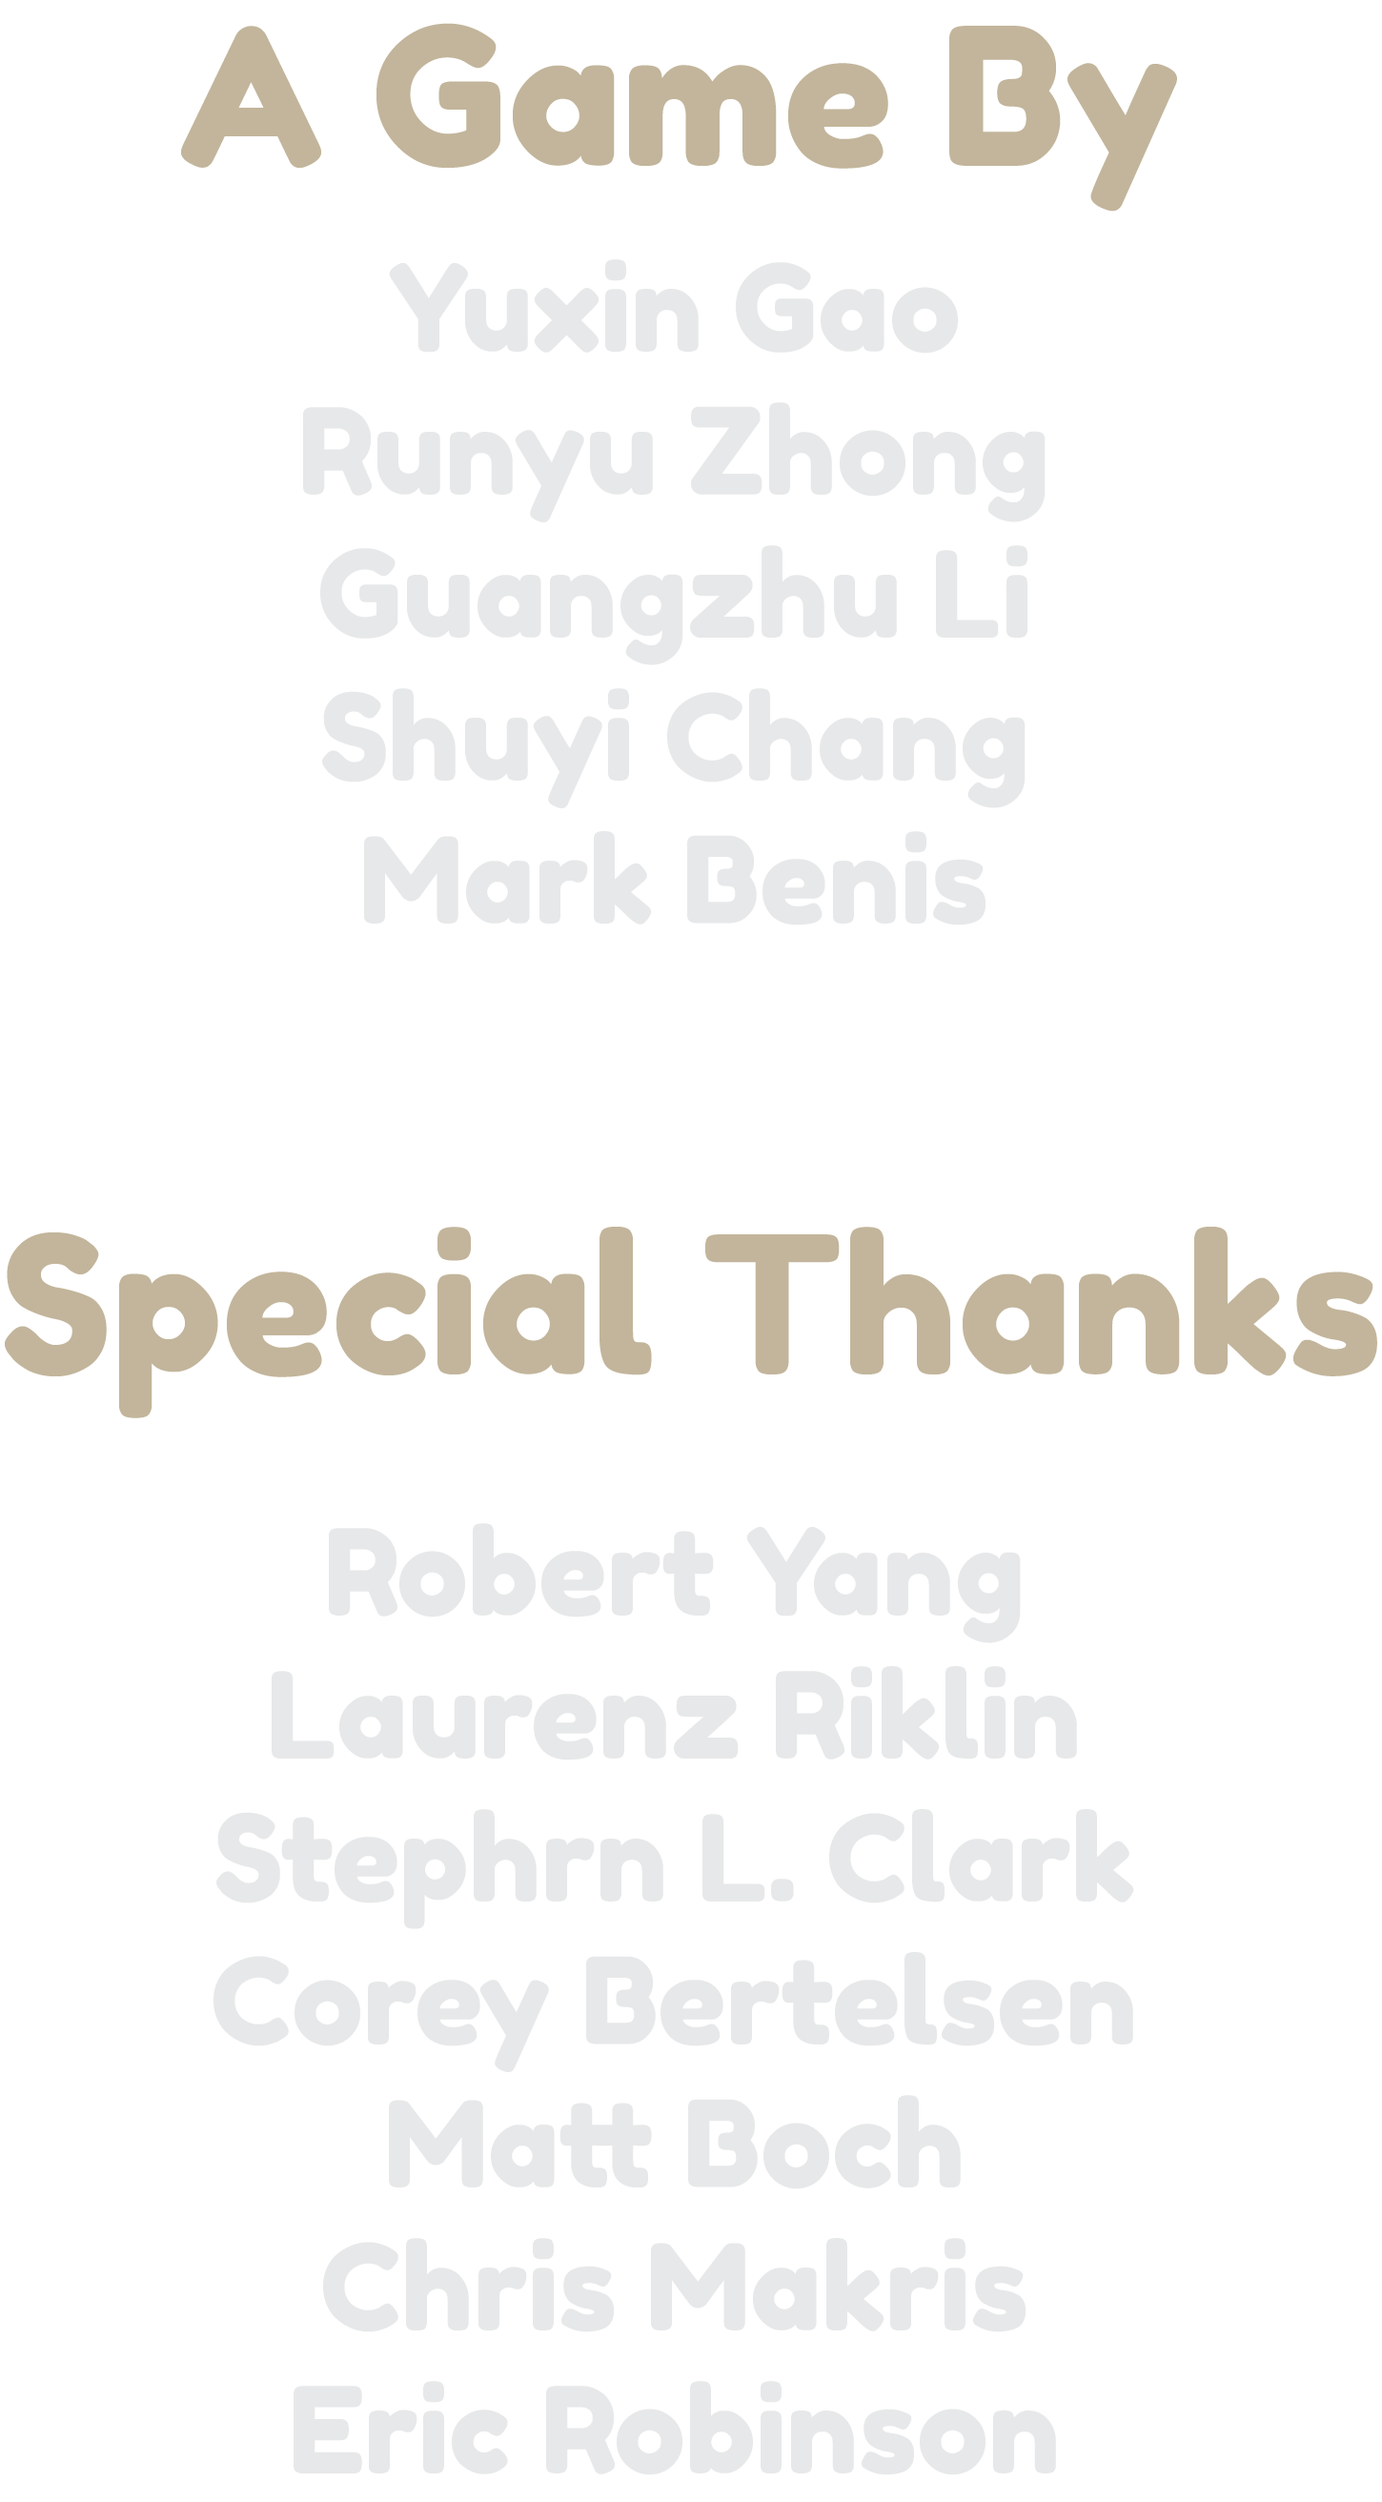
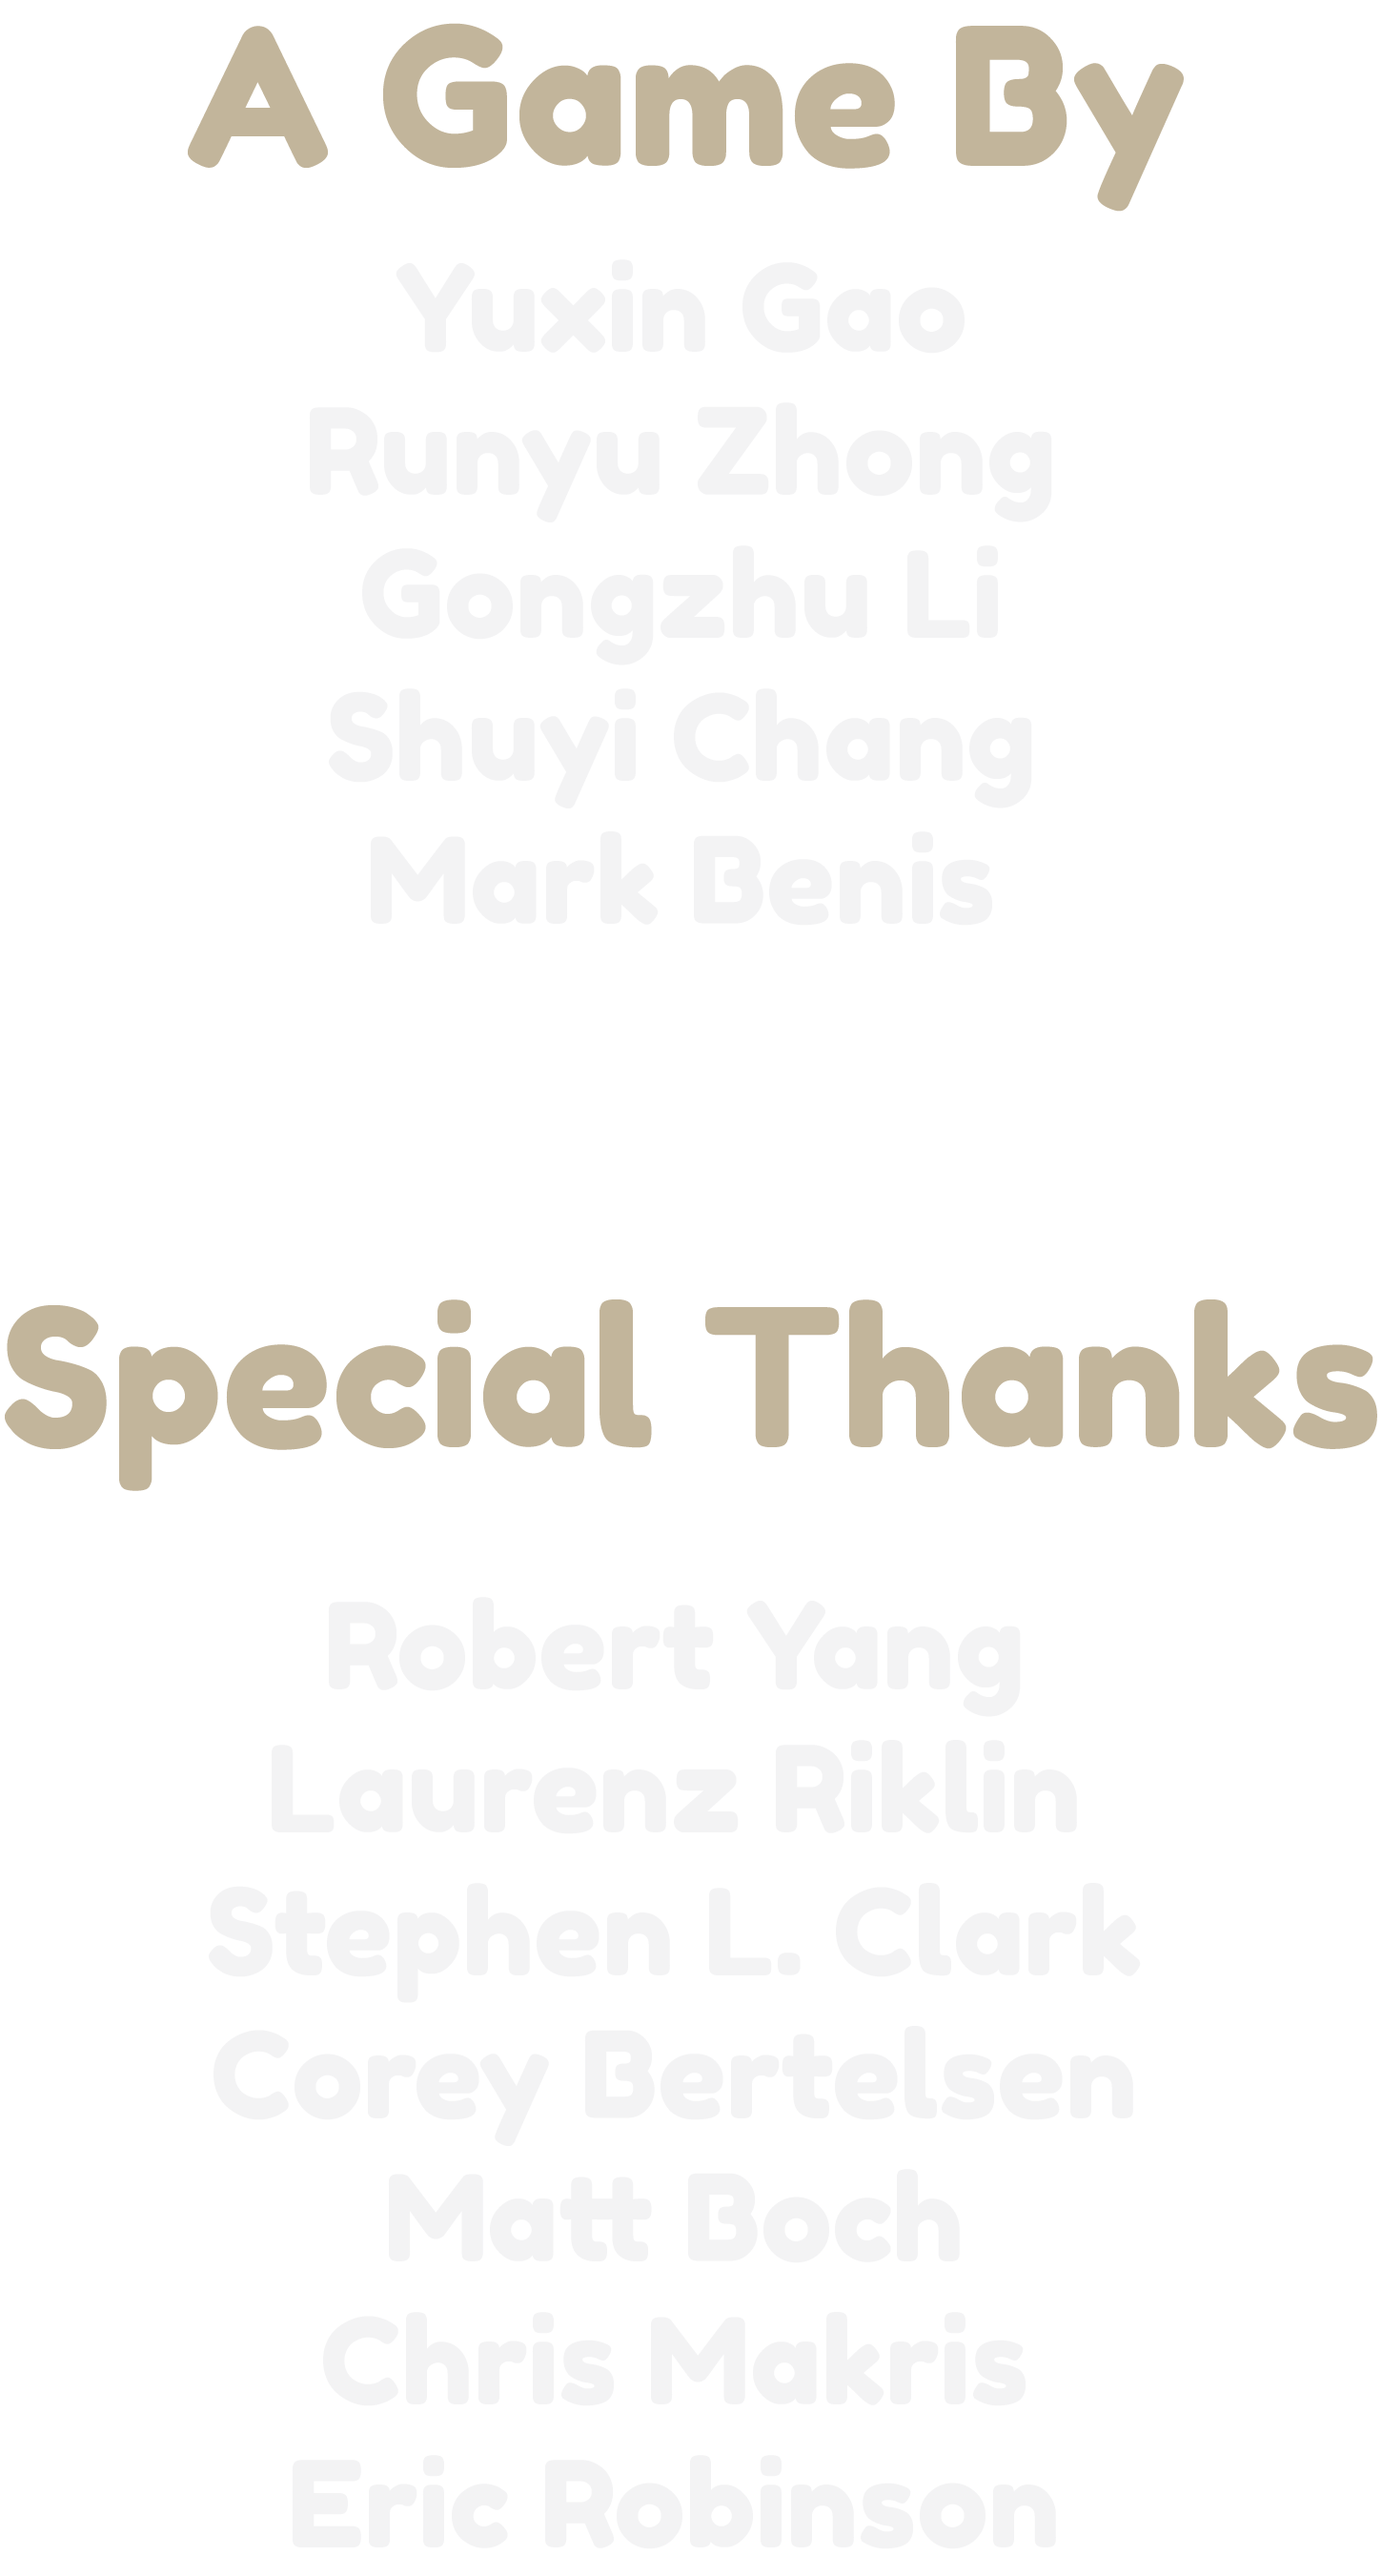
Name correction

diff --git a/RhythmGamePrototype3/Assets/Scripts/Menu/ClockRotation.cs b/RhythmGamePrototype3/Assets/Scripts/Menu/ClockRotation.cs
@@ -14,6 +14,6 @@ public class ClockRotation : MonoBehaviour
     // Update is called once per frame
     void Update()
     {
-        transform.Rotate(0,0,speed);
+        transform.Rotate(0,0,speed * Time.deltaTime);
     }
 }
